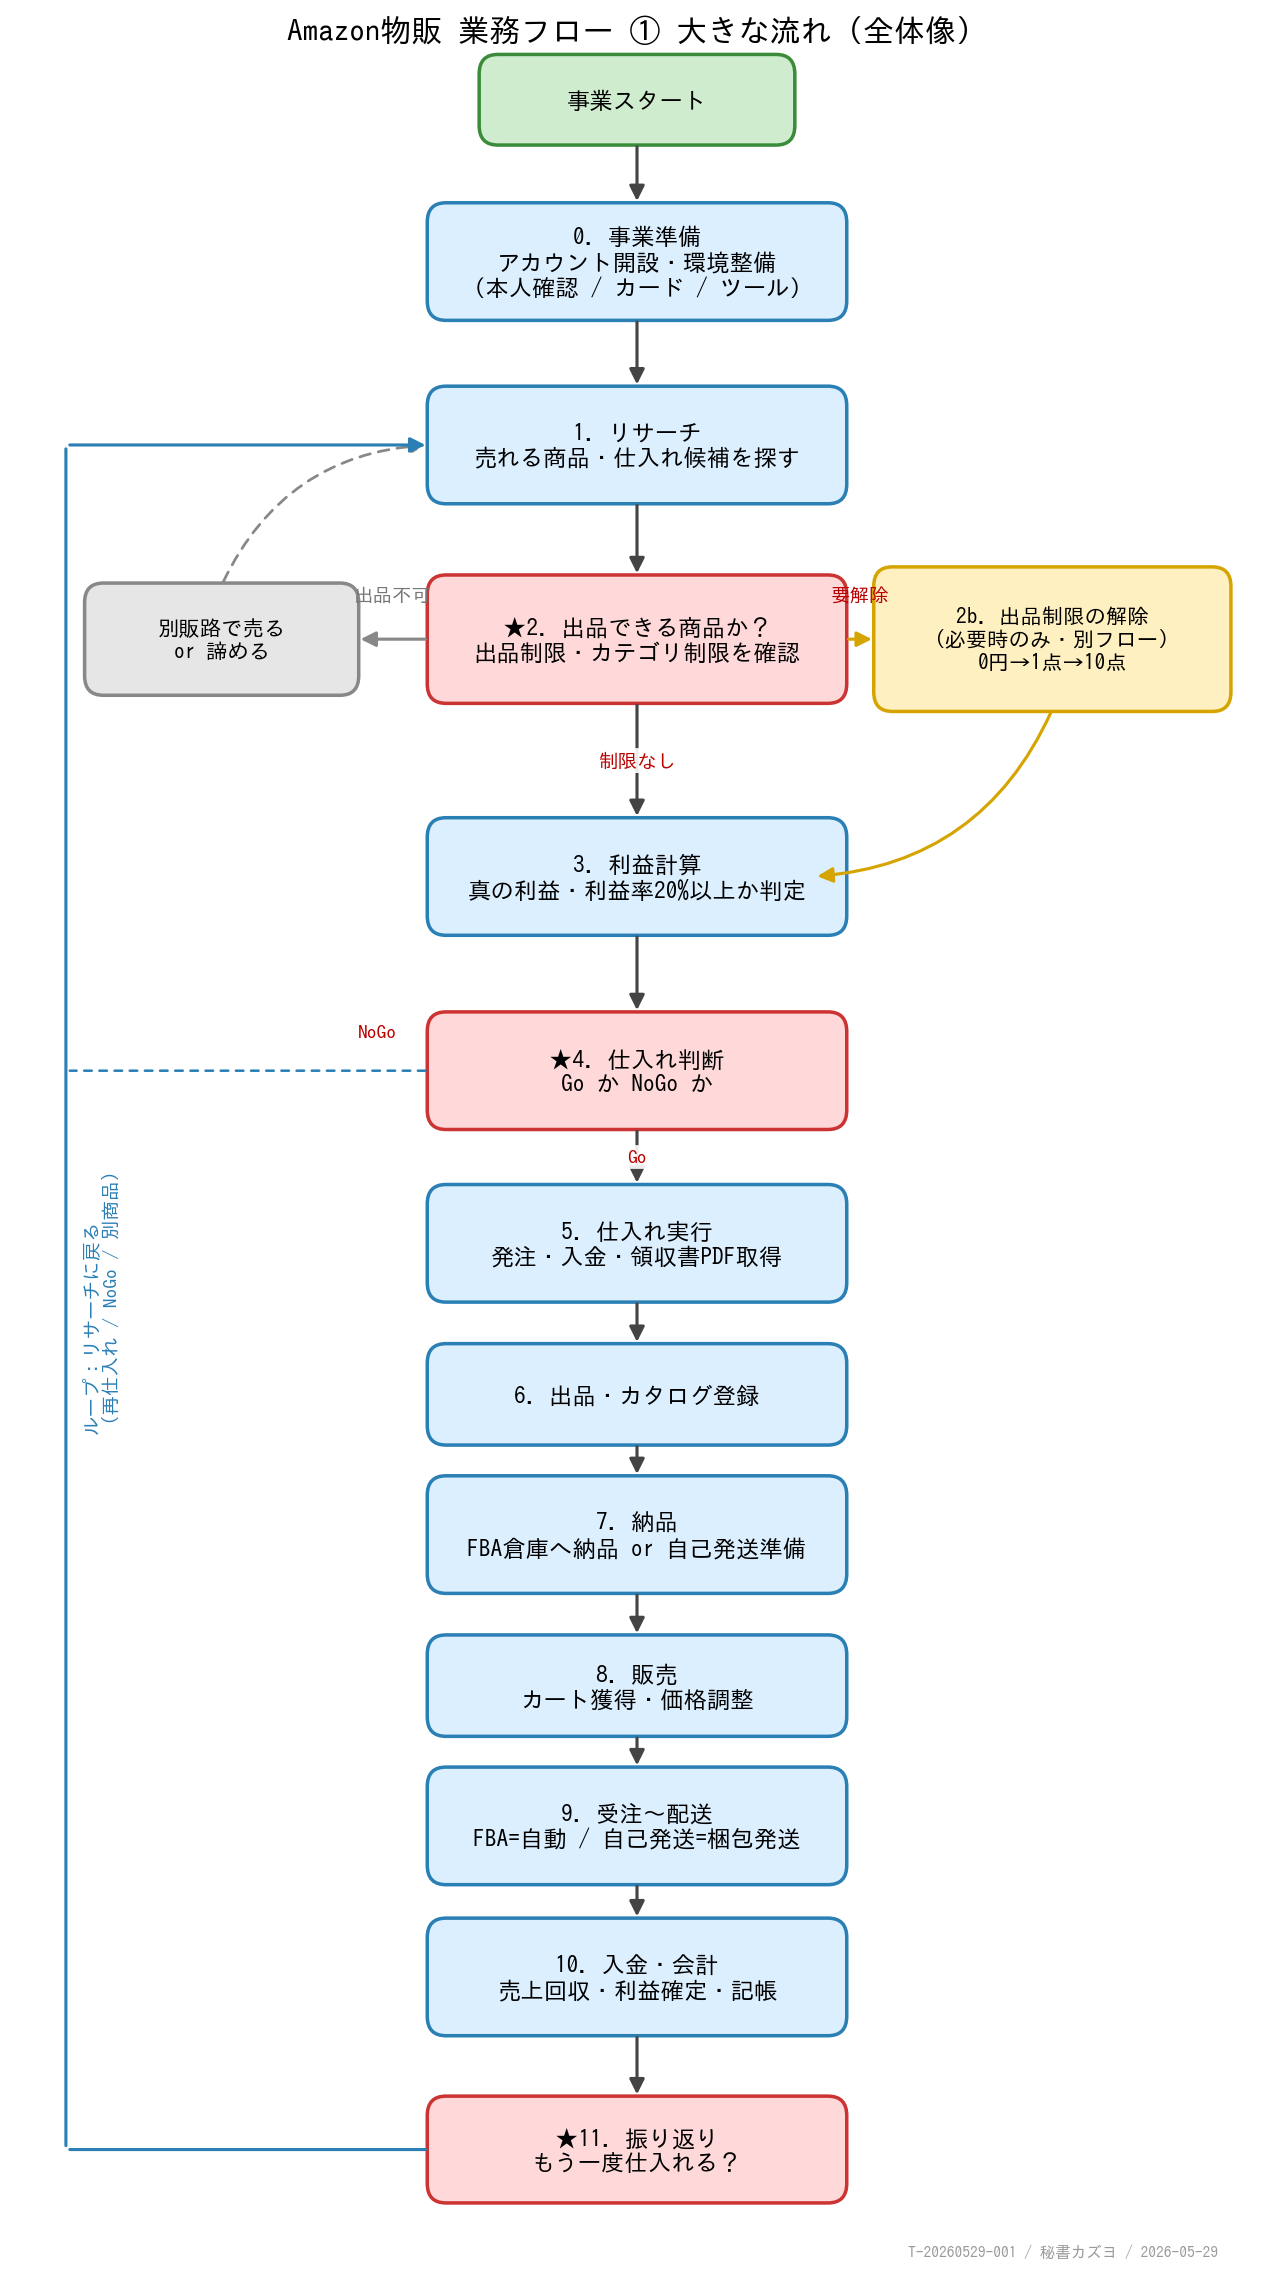
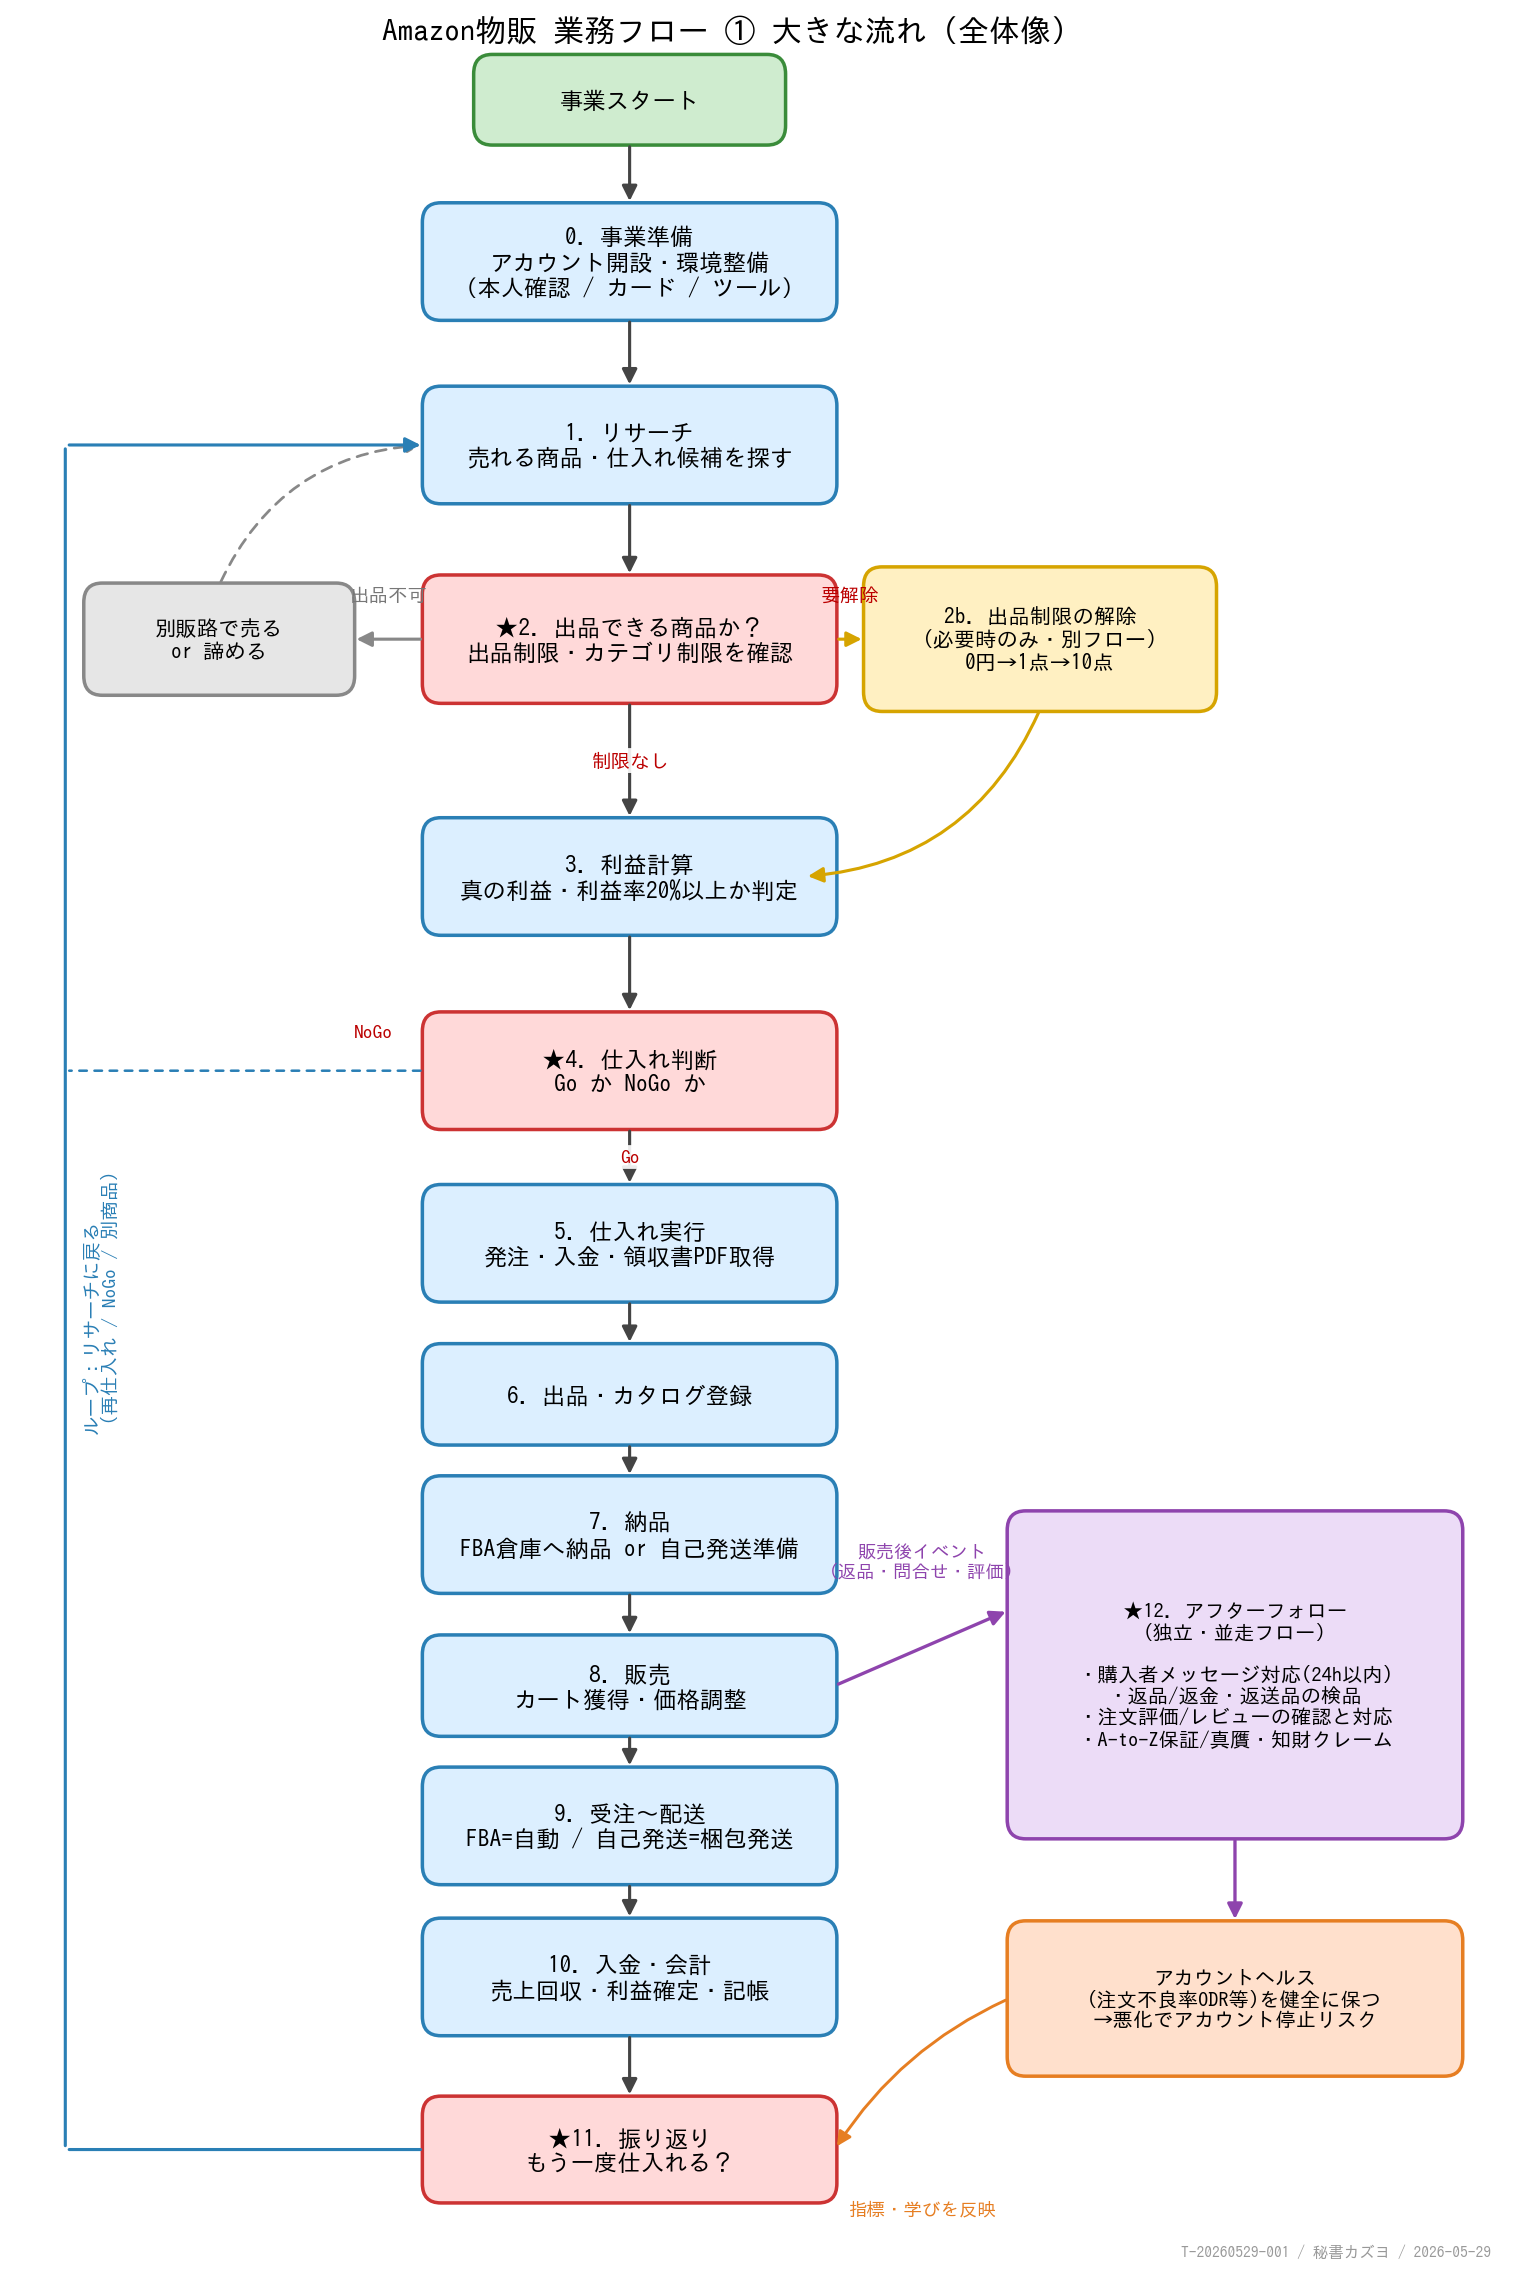
T-20260529-001: 全体フローに独立フロー「12.アフターフォロー」+アカウントヘルスを追加（社長指摘反映）

diff --git a/workspace/output/deliverables/T-20260529-001/draw_overview.py b/workspace/output/deliverables/T-20260529-001/draw_overview.py
@@ -17,6 +17,8 @@ COL = {
     "gate":  "#ffd9d9",
     "rel":   "#fff0c2",
     "dead":  "#e6e6e6",
+    "after": "#ecdcf7",
+    "health":"#ffe0cc",
 }
 EDGE = {
     "start": "#3a8c3a",
@@ -24,10 +26,12 @@ EDGE = {
     "gate":  "#cc3333",
     "rel":   "#d6a400",
     "dead":  "#888888",
+    "after": "#8e44ad",
+    "health":"#e67e22",
 }
 
-fig, ax = plt.subplots(figsize=(9.2, 16.5))
-ax.set_xlim(0, 12)
+fig, ax = plt.subplots(figsize=(11.0, 16.5))
+ax.set_xlim(0, 14.6)
 ax.set_ylim(0, 21)
 ax.axis("off")
 
@@ -81,6 +85,14 @@ box("G3", 6.0, 1.2, "★11. 振り返り\nもう一度仕入れる？", "gate", 
 box("REL", 10.0, 15.2, "2b. 出品制限の解除\n（必要時のみ・別フロー）\n0円→1点→10点", "rel", w=3.4, h=1.3, fs=11)
 box("X1", 2.0, 15.2, "別販路で売る\nor 諦める", "dead", w=2.6, h=1.0, fs=11)
 
+# --- independent parallel flow: after-sales / customer care ---
+box("AF", 11.9, 5.6,
+    "★12. アフターフォロー\n（独立・並走フロー）\n\n・購入者メッセージ対応(24h以内)\n・返品/返金・返送品の検品\n・注文評価/レビューの確認と対応\n・A-to-Z保証/真贋・知財クレーム",
+    "after", w=4.4, h=3.0, fs=10.5)
+box("AH", 11.9, 2.6,
+    "アカウントヘルス\n(注文不良率ODR等)を健全に保つ\n→悪化でアカウント停止リスク",
+    "health", w=4.4, h=1.4, fs=10.5)
+
 # --- main arrows ---
 arrow("start", "P0")
 arrow("P0", "P1")
@@ -133,10 +145,29 @@ ax.add_patch(FancyArrowPatch((g2x-g2w/2, g2y), (lane_x, g2y),
 ax.text(g2x-g2w/2-0.5, g2y+0.3, "NoGo", ha="center", fontsize=10,
         fontproperties=fp, color="#b00")
 
+# --- after-sales arrows ---
+p9x, p9y, p9w, p9h = boxes["P9"]
+afx, afy, afw, afh = boxes["AF"]
+ahx, ahy, ahw, ahh = boxes["AH"]
+# 販売〜配送のイベント -> アフターフォロー
+ax.add_patch(FancyArrowPatch((p9x+p9w/2, p9y), (afx-afw/2, afy+0.6),
+             arrowstyle="-|>", mutation_scale=16, linewidth=1.7, color="#8e44ad"))
+ax.text((p9x+p9w/2+afx-afw/2)/2, afy+1.05, "販売後イベント\n（返品・問合せ・評価）",
+        ha="center", va="center", fontsize=9.5, fontproperties=fp, color="#8e44ad")
+# アフターフォロー -> アカウントヘルス
+ax.add_patch(FancyArrowPatch((afx, afy-afh/2), (ahx, ahy+ahh/2),
+             arrowstyle="-|>", mutation_scale=16, linewidth=1.7, color="#8e44ad"))
+# アカウントヘルス -> 振り返り（指標を反映）
+ax.add_patch(FancyArrowPatch((ahx-ahw/2, ahy), (g3x+g3w/2, g3y),
+             arrowstyle="-|>", mutation_scale=15, linewidth=1.5, color="#e67e22",
+             connectionstyle="arc3,rad=0.15"))
+ax.text((ahx-ahw/2+g3x+g3w/2)/2, g3y-0.55, "指標・学びを反映",
+        ha="center", va="center", fontsize=9.5, fontproperties=fp, color="#e67e22")
+
 # title
-ax.text(6.0, 20.85, "Amazon物販 業務フロー ① 大きな流れ（全体像）",
+ax.text(7.0, 20.85, "Amazon物販 業務フロー ① 大きな流れ（全体像）",
         ha="center", va="center", fontsize=16, fontproperties=fp, weight="bold")
-ax.text(11.6, 0.2, "T-20260529-001 / 秘書カズヨ / 2026-05-29",
+ax.text(14.4, 0.2, "T-20260529-001 / 秘書カズヨ / 2026-05-29",
         ha="right", fontsize=8, fontproperties=fp, color="#999")
 
 plt.tight_layout()

diff --git a/workspace/output/deliverables/T-20260529-001/01_overview-flow.md b/workspace/output/deliverables/T-20260529-001/01_overview-flow.md
@@ -49,11 +49,24 @@ flowchart TD
     P12 -->|"売れた・再現したい"| P1
     P12 -->|"撤退・別商品へ"| P1
 
+    AF["<b>12. アフターフォロー</b><br/>（独立・並走フロー）<br/>購入者メッセージ/返品・返金/<br/>評価・レビュー/A-to-Z・真贋クレーム"]
+    AH["<b>アカウントヘルス</b><br/>ODR等を健全に保つ<br/>→悪化でアカウント停止リスク"]
+    P9 -->|"販売後イベント<br/>（返品・問合せ・評価）"| AF
+    P10 -.-> AF
+    AF --> AH
+    AH -->|"指標・学びを反映"| P12
+
     classDef gate fill:#ffe1e1,stroke:#d33,stroke-width:2px;
     classDef rel fill:#fff3cd,stroke:#e0a800,stroke-width:2px;
+    classDef after fill:#ecdcf7,stroke:#8e44ad,stroke-width:2px;
+    classDef health fill:#ffe0cc,stroke:#e67e22,stroke-width:2px;
     class G1,G2,P12 gate;
     class REL rel;
+    class AF after;
+    class AH health;
 ```
+
+> **追記（社長指摘で改訂・2026-05-29）**: 当初「振り返り」に内包していた**クレーム対応・評価確認を独立した並走フロー「12. アフターフォロー」として分離**。理由は (1) 性質がイベント駆動・即応型で定期的な振り返りと別、(2) 販売〜入金と同時並行で起き続ける、(3) **アカウントヘルス（ODR等）に直結し、悪化するとアカウント停止＝事業停止リスク**があるため。評価・レビュー確認もこのフローに含む。
 
 ---
 
@@ -74,8 +87,10 @@ flowchart TD
 | 9 | **受注〜配送** | お客様に届ける | FBAは自動・自己発送は梱包/発送/追跡番号 |
 | 10 | **入金・会計** | 利益を確定させる | 売上金サイクル・手数料控除・記帳・確定申告の準備 |
 | 11 | **振り返り** ◇ | 次の一手を決める | KPI（利益率・回転）・再仕入れ判断・SKU積み上げ |
+| 12 | **アフターフォロー**（独立・並走） | 顧客満足とアカウント健全性を保つ | 購入者メッセージ対応（24h以内）・返品/返金・返送品検品・注文評価/レビュー確認と対応・A-to-Z/真贋・知財クレーム・アカウントヘルス監視 |
 
 ◇ = 「判断・確認ゲート」。ここを飛ばすと損失につながりやすい要所です。
+段階12は他と性質が異なる**並走フロー**（販売以降ずっと回り続け、アカウントヘルスを通じて事業継続そのものを左右する）。
 
 ---
 

diff --git a/workspace/tickets/doing/T-20260529-001_amazon-buppan-flowchart.md b/workspace/tickets/doing/T-20260529-001_amazon-buppan-flowchart.md
@@ -45,4 +45,6 @@ next_check_at: 2026-05-30
 ## ログ
 
 - 2026-05-29 起票。社長依頼受領。規制解除マニュアルを reference 保存。Phase 1（全体フロー）に着手
+- 2026-05-29 全体フロー初版を Mermaid(md/html) で作成 → 社長環境で描画されず。matplotlib+IPAGothic で確実表示の PNG に作り替え（`01_overview-flow.png`）
+- 2026-05-29 社長指摘で改訂: クレーム対応・評価確認を独立並走フロー「12. アフターフォロー」＋「アカウントヘルス」として追加（PNG/md 反映）。Phase 2 着手待ち（仕入れ周りから細分化が有力）
 </content>
